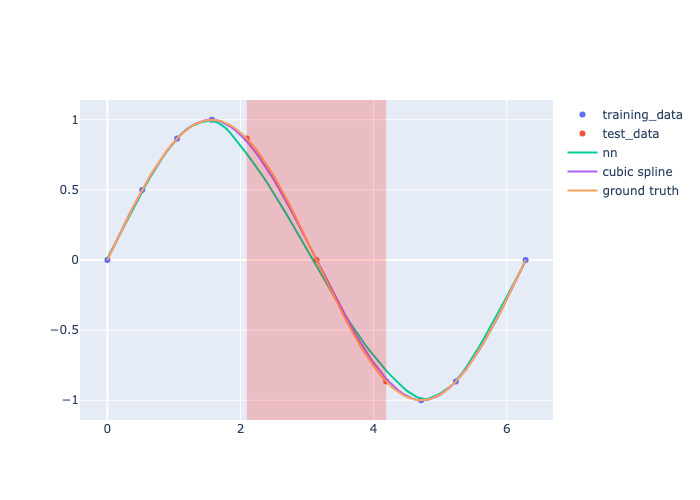
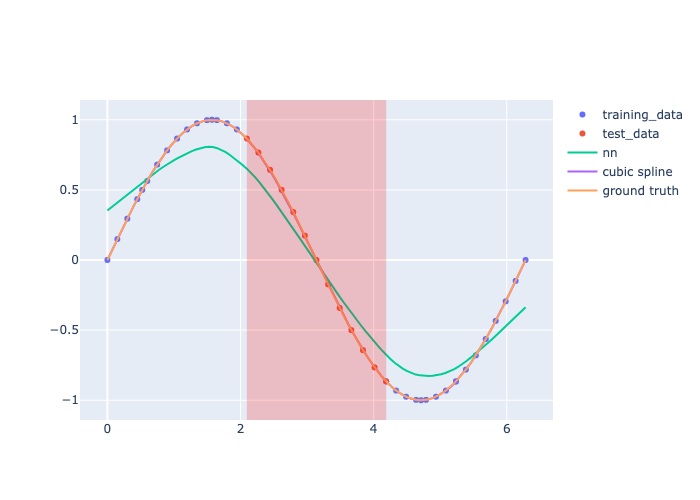
Sine POC

diff --git a/datasets/dataset.py b/datasets/dataset.py
@@ -1,7 +1,7 @@
 from utils.maths import *
 
 
-def generate_random_dataset(task_type="baseline"):
+def generate_random_dataset(task_type="baseline", num_datapoints=10):
     x_train, y_train, x_test, y_test = None, None, None, None
     if task_type == "baseline":
         x_train = np.array([0.00626232, 0.03851067, 0.15995237, 0.24668581, 0.36837388,
@@ -31,7 +31,7 @@ def generate_random_dataset(task_type="baseline"):
     return x_train, y_train, x_test, y_test
 
 
-def generate_constant_dataset(task_type="baseline"):
+def generate_constant_dataset(task_type="baseline", num_datapoints=10):
     x_train, y_train, x_test, y_test = None, None, None, None
     if task_type == "baseline":
         x_train = np.array([0, 1, 2, 3, 4, 5, 6, 7, 8, 9])
@@ -49,7 +49,7 @@ def generate_constant_dataset(task_type="baseline"):
     return x_train, y_train, x_test, y_test
 
 
-def generate_linear_dataset(task_type="baseline"):
+def generate_linear_dataset(task_type="baseline", num_datapoints=10):
     x_train, y_train, x_test, y_test = None, None, None, None
     if task_type == "baseline":
         x_train = np.array([0, 1, 2, 3, 4, 5, 6, 7, 8, 9])
@@ -82,8 +82,10 @@ def generate_sine_dataset(task_type="baseline", num_datapoints=10, x_test_size=0
                 5 * np.pi / 3,
                 2 * np.pi
         ])
+        additional_x_train = np.linspace(np.min(x_train), np.max(x_train), num_datapoints - len(x_train),
+                                         endpoint=False).astype(np.float16)
+        x_train = sorted(np.unique(np.append(x_train, additional_x_train)))
         x_test = np.array([])
-        y_train, y_test = sin(x_train), np.array([])
     elif task_type == "interpolation":
         x_train = np.array([
                 0,
@@ -99,7 +101,18 @@ def generate_sine_dataset(task_type="baseline", num_datapoints=10, x_test_size=0
                 np.pi,
                 4 * np.pi / 3,
         ])
-        y_train, y_test = sin(x_train), sin(x_test)
+        additional_x_train = np.concatenate(
+                (np.linspace(np.min(x_train), np.min(x_test),
+                             int(((1 - x_test_size) * num_datapoints - len(x_train)) // 2),
+                             endpoint=False).astype(np.float16),
+                 np.linspace(np.max(x_test), np.max(x_train),
+                             int(((1 - x_test_size) * num_datapoints - len(x_train)) // 2),
+                             endpoint=False).astype(np.float16))
+        )
+        x_train = sorted(np.unique(np.append(x_train, additional_x_train)))
+        additional_x_test = np.linspace(np.min(x_test), np.max(x_test), int(x_test_size * num_datapoints - len(x_test)),
+                                        endpoint=False).astype(np.float16)
+        x_test = sorted(np.unique(np.append(x_test, additional_x_test)))
     elif task_type == "extrapolation":
         x_train = np.array([
                 0,
@@ -115,12 +128,21 @@ def generate_sine_dataset(task_type="baseline", num_datapoints=10, x_test_size=0
                 5 * np.pi / 3,
                 2 * np.pi
         ])
-        y_train, y_test = sin(x_train), sin(x_test)
 
+        additional_x_train = np.linspace(np.min(x_train), np.max(x_train),
+                                         int((1 - x_test_size) * num_datapoints - len(x_train)), endpoint=False).astype(np.float16)
+        x_train = sorted(np.unique((np.append(x_train, additional_x_train))))
+        additional_x_test = np.linspace(np.min(x_test), np.max(x_test), int(x_test_size * num_datapoints - len(x_test)),
+                                        endpoint=False).astype(np.float16)
+        x_test = sorted(np.unique((np.append(x_test, additional_x_test))))
+
+    y_train, y_test = sin(x_train), sin(x_test)
+
+    print(f"Datasets: {x_train}, {y_train}, {x_test}, {y_test}")
     return x_train, y_train, x_test, y_test
 
 
-def generate_square_dataset(task_type="baseline"):
+def generate_square_dataset(task_type="baseline", num_datapoints=10):
     """Generate data points for a square 'bump' (_---_)."""
     x_train, y_train, x_test, y_test = None, None, None, None
     if task_type == "baseline":
@@ -145,7 +167,7 @@ def generate_square_dataset(task_type="baseline"):
     return x_train, y_train, x_test, y_test
 
 
-def generate_polynomial_spline_dataset(task_type="baseline"):
+def generate_polynomial_spline_dataset(task_type="baseline", num_datapoints=10):
     """Generate data points for a polynomial spline."""
 
     x_train, y_train, x_test, y_test = None, None, None, None
@@ -171,7 +193,7 @@ def generate_polynomial_spline_dataset(task_type="baseline"):
     return x_train, y_train, x_test, y_test
 
 
-def generate_chebyshev_dataset(task_type="baseline"):
+def generate_chebyshev_dataset(task_type="baseline", num_datapoints=10):
     """Generate data points for the 4th Chebyshev polynomial (16x^4 - 12x^2 + 1)."""
     x_train, y_train, x_test, y_test = None, None, None, None
     if task_type == "baseline":
@@ -196,7 +218,7 @@ def generate_chebyshev_dataset(task_type="baseline"):
     return x_train, y_train, x_test, y_test
 
 
-def generate_parabola_dataset(task_type="baseline"):
+def generate_parabola_dataset(task_type="baseline", num_datapoints=10):
     """Generate data points for the parabola."""
     x_train, y_train, x_test, y_test = None, None, None, None
     if task_type == "baseline":

diff --git a/utils/utils.py b/utils/utils.py
@@ -48,48 +48,23 @@ def calculate_spline_vs_model_error(variational_predictions, network_predictions
 def select_dataset(args):
     # TODO: Add a unit test for this.
     """Select the dataset to use."""
-    if args.dataset == "linear" and args.generalisation_task == "baseline":
-        return generate_linear_dataset(), linear
-    elif args.dataset == "linear" and args.generalisation_task == "interpolation":
-        return generate_linear_interpolation(), linear
-    if args.dataset == "linear" and args.generalisation_task == "extrapolation":
-        return generate_linear_extrapolation(), linear
-    elif args.dataset == "constant" and args.generalisation_task == "baseline":
-        return generate_constant_dataset(), constant
-    elif args.dataset == "constant" and args.generalisation_task == "interpolation":
-        return generate_constant_interpolation(), constant
-    elif args.dataset == "constant" and args.generalisation_task == "extrapolation":
-        return generate_constant_extrapolation(), constant
-    elif args.dataset == "sine" and args.generalisation_task == "baseline":
-        return generate_sine_dataset(), sin
-    elif args.dataset == "sine" and args.generalisation_task == "interpolation":
-        return generate_sine_interpolation(), sin
-    elif args.dataset == "sine" and args.generalisation_task == "extrapolation":
-        return generate_sine_extrapolation(), sin
-    elif args.dataset == "parabola" and args.generalisation_task == "baseline":
-        return generate_parabola_dataset(), parabola
-    elif args.dataset == "parabola" and args.generalisation_task == "interpolation":
-        return generate_parabola_interpolation(), parabola
-    elif args.dataset == "parabola" and args.generalisation_task == "extrapolation":
-        return generate_parabola_extrapolation(), parabola
-    elif args.dataset == "square" and args.generalisation_task == "baseline":
-        return generate_square_dataset(), square
-    elif args.dataset == "square" and args.generalisation_task == "interpolation":
-        return generate_square_interpolation(), square
-    elif args.dataset == "square" and args.generalisation_task == "extrapolation":
-        return generate_square_extrapolation(), square
-    elif args.dataset == "polynomial_spline" and args.generalisation_task == "baseline":
-        return generate_polynomial_spline_dataset(), polynomial_spline
-    elif args.dataset == "polynomial_spline" and args.generalisation_task == "interpolation":
-        return generate_polynomial_spline_interpolation(), polynomial_spline
-    elif args.dataset == "polynomial_spline" and args.generalisation_task == "extrapolation":
-        return generate_polynomial_spline_extrapolation(), polynomial_spline
-    elif args.dataset == "chebyshev_polynomial" and args.generalisation_task == "baseline":
-        return generate_chebyshev_dataset(), partial(chebyshev_polynomial, n=4)
-    elif args.dataset == "chebyshev_polynomial" and args.generalisation_task == "interpolation":
-        return generate_chebyshev_interpolation(), partial(chebyshev_polynomial, n=4)
-    elif args.dataset == "chebyshev_polynomial" and args.generalisation_task == "extrapolation":
-        return generate_chebyshev_extrapolation(), partial(chebyshev_polynomial, n=4)
+    if args.dataset == "linear":
+        return generate_linear_dataset(args.generalisation_task, args.num_datapoints), linear
+    elif args.dataset == "constant":
+        return generate_constant_dataset(args.generalisation_task, args.num_datapoints), constant
+    elif args.dataset == "sine":
+        return generate_sine_dataset(args.generalisation_task, args.num_datapoints), sin
+    elif args.dataset == "parabola":
+        return generate_parabola_dataset(args.generalisation_task, args.num_datapoints), parabola
+    elif args.dataset == "square":
+        return generate_square_dataset(args.generalisation_task, args.num_datapoints), square
+    elif args.dataset == "polynomial_spline":
+        return generate_polynomial_spline_dataset(args.generalisation_task, args.num_datapoints), polynomial_spline
+    elif args.dataset == "chebyshev_polynomial":
+        return generate_chebyshev_dataset(args.generalisation_task, args.num_datapoints), partial(chebyshev_polynomial, n=4)
+    # This isn't fully built out yet, commenting out so it doesn't break the code.
+    # elif args.dataset == "random":
+    #     return generate_random_dataset(args.generalisation_task, args.num_datapoints), random
 
 
 def setup():

diff --git a/utils/parsers.py b/utils/parsers.py
@@ -36,8 +36,8 @@ def parse_args():
     parser.add_argument("--log_every_k_steps", "-l", default=100, type=int, help="Log the loss every k steps.")
     parser.add_argument("--adjust_data_linearly", "-a", default="True", type=str, help="Adjust the data linearly?")
     parser.add_argument("--normalise", default="True", type=str, help="Normalise the data?")
-    parser.add_argument("--num_samples", "-s", default=7, type=int,
-                        help="Number of points in the training dataset.")
+    parser.add_argument("--num_datapoints", "-nd", default=10, type=int,
+                        help="Number of points in the (training+test) datasets. The ratio is always 70:30.")
     parser.add_argument("--learning_rate", "-lr", default=1e-4, type=float,
                         help="Learning rate of the optimiser.")
     parser.add_argument("--model_type", "-m", default="ASIShallowRelu", type=str, help="Select from ASIShallowRelu, "

diff --git a/datasets/dataset_tests.py b/datasets/dataset_tests.py
@@ -123,4 +123,4 @@ def generate_parabola_extrapolation_unit_test():
 
 
 if __name__ == "__main__":
-    generate_chebyshev_baseline_unit_test()
+    generate_sine_extrapolation_unit_test()
